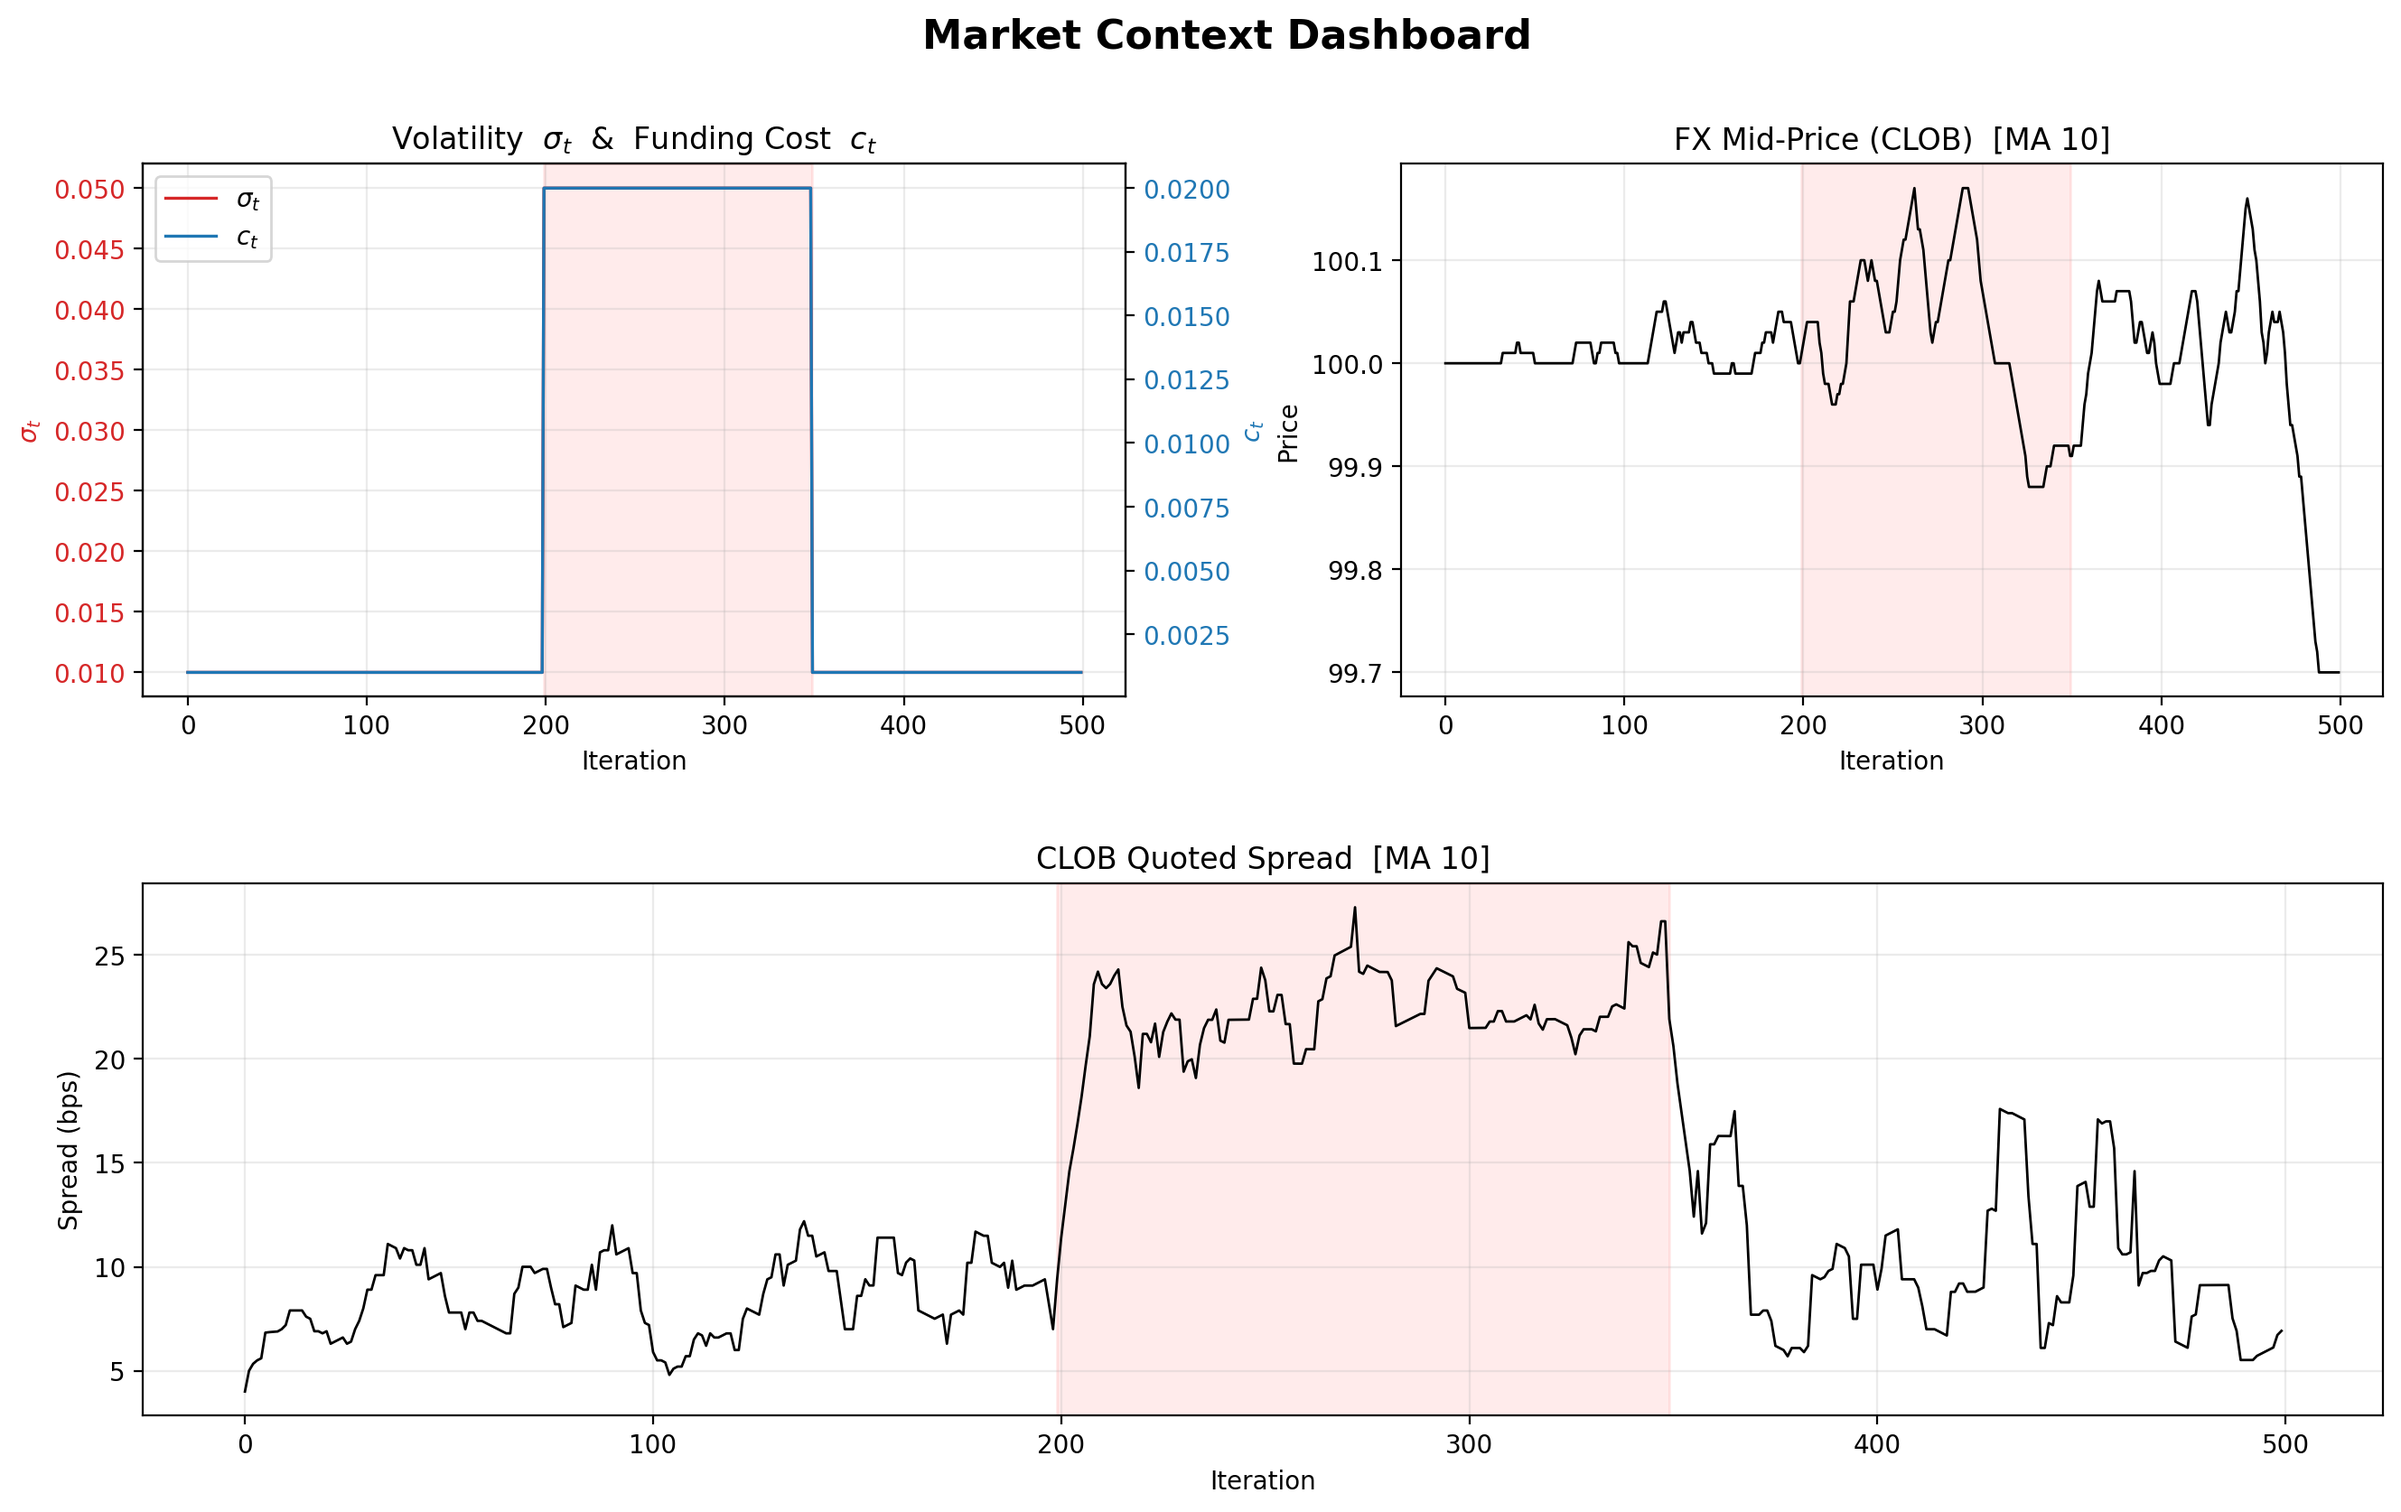
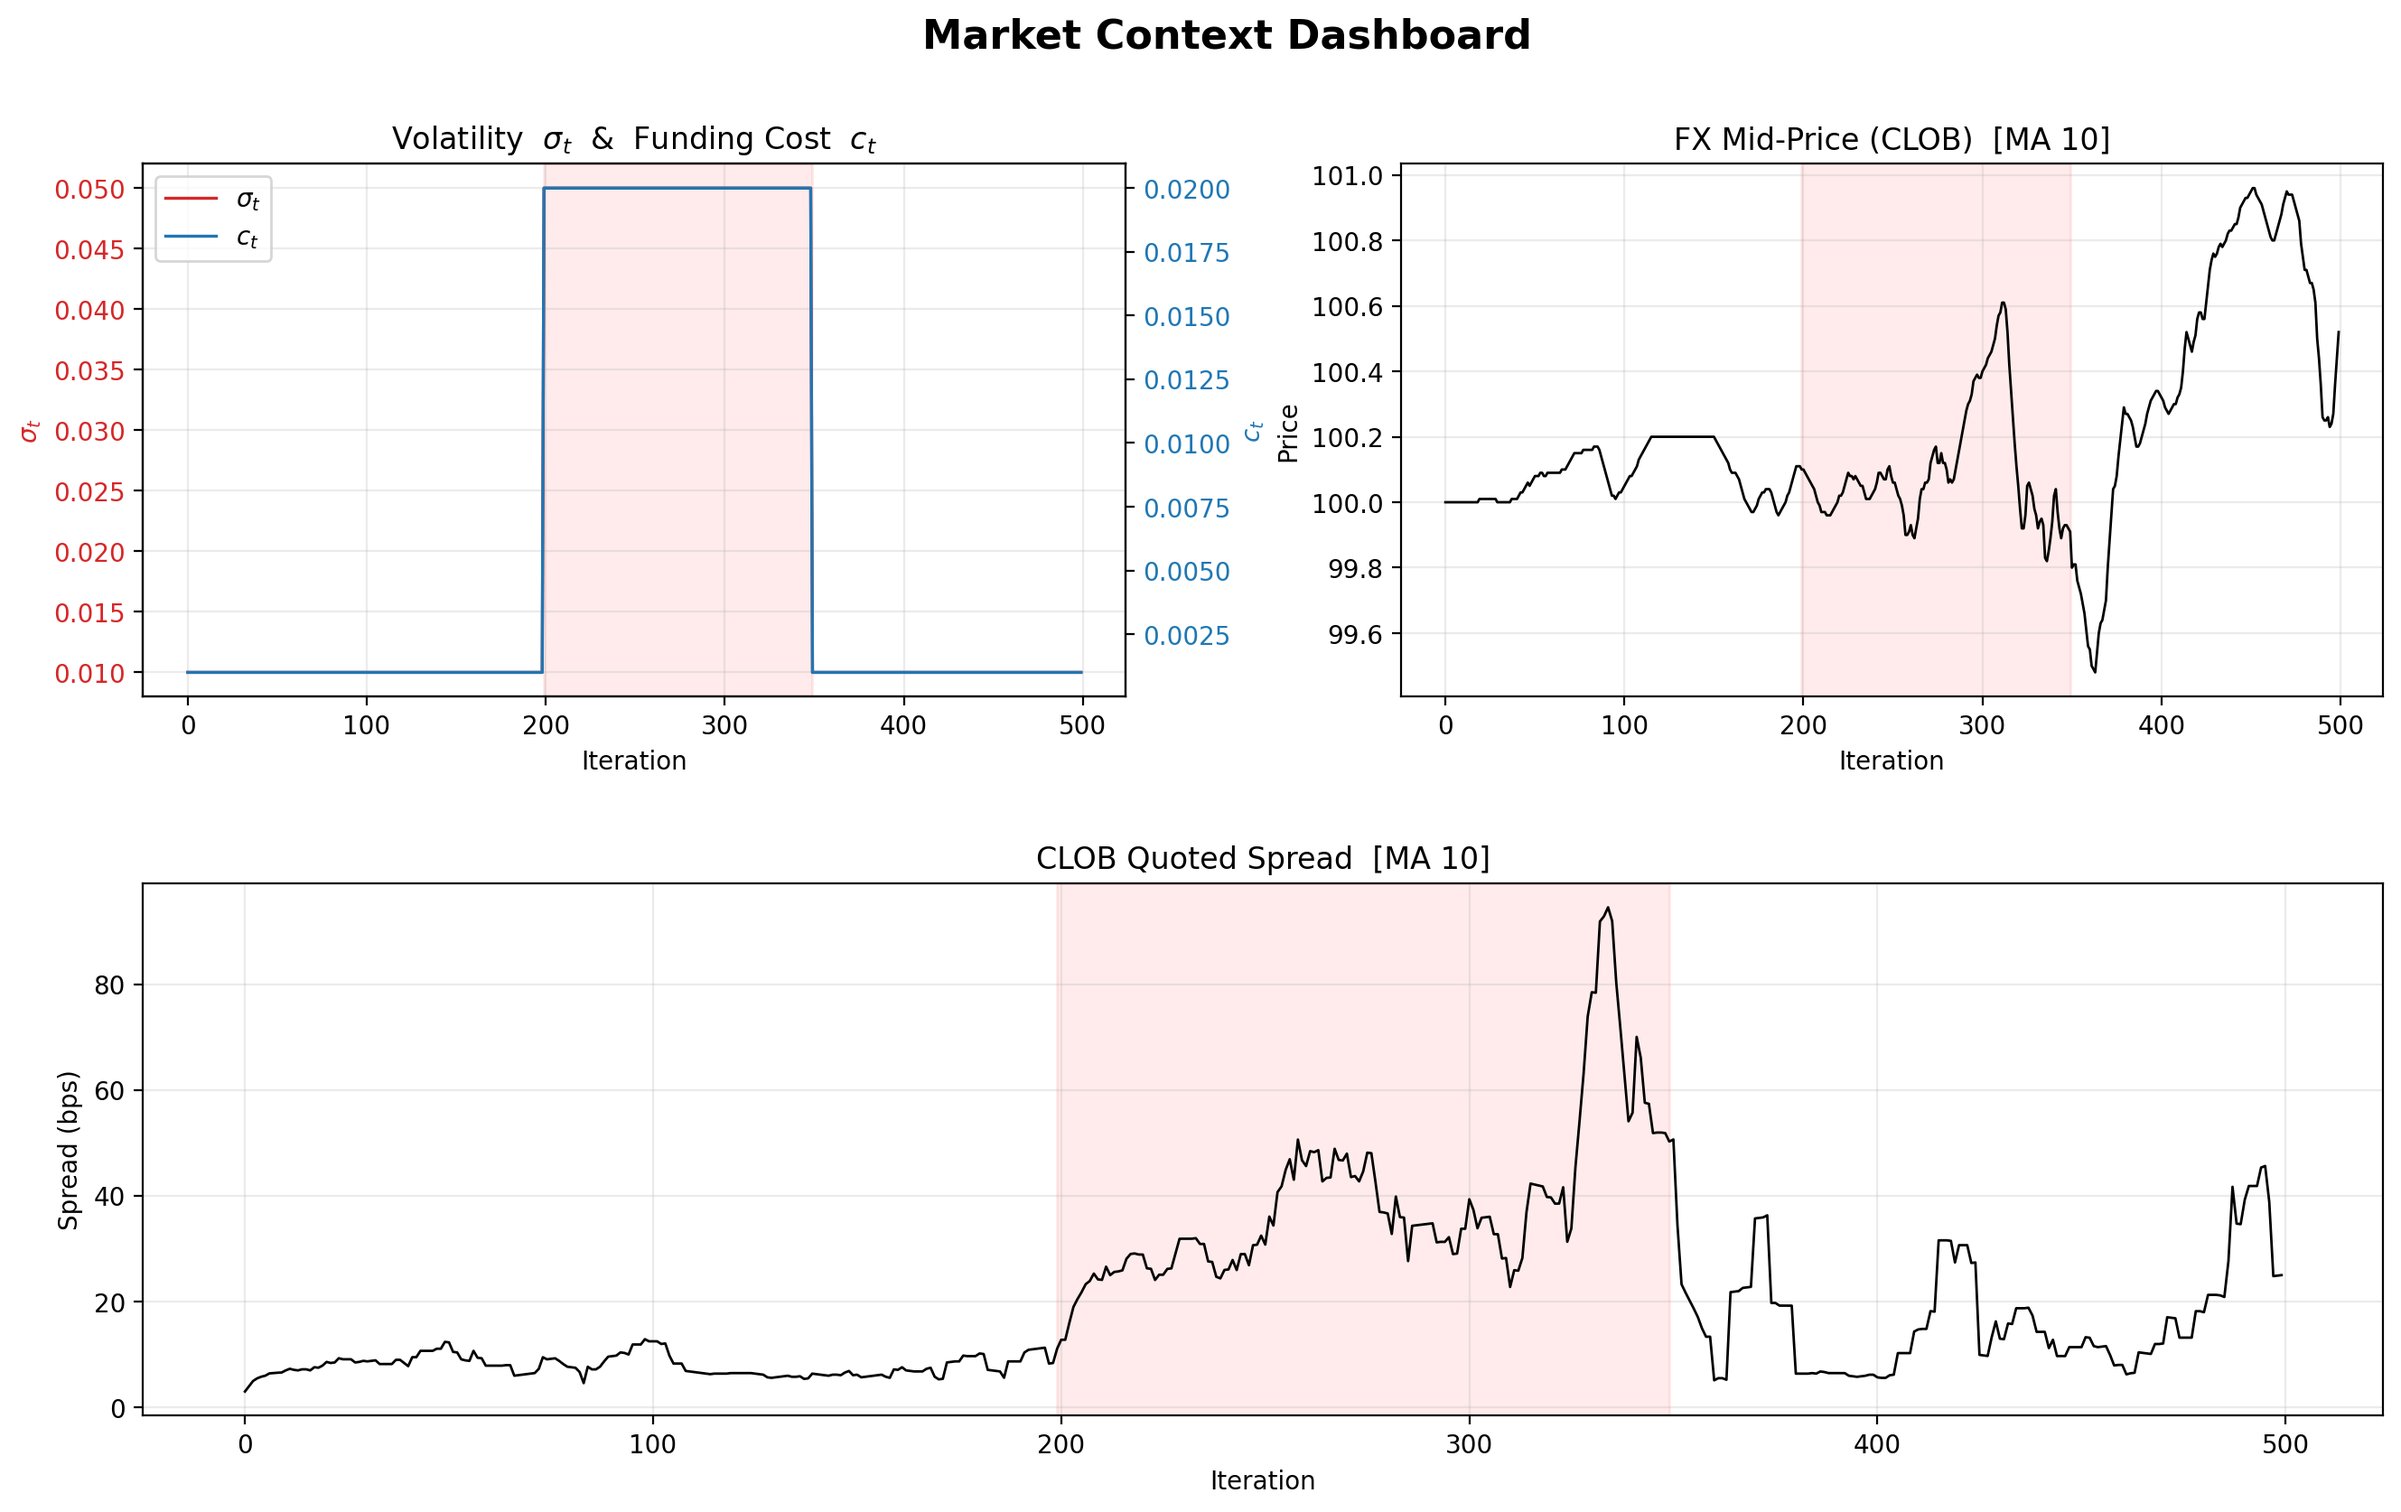
Tune HFMM calibration and update dashboards

diff --git a/AgentBasedModel/simulator/simulator.py b/AgentBasedModel/simulator/simulator.py
@@ -146,6 +146,13 @@ class Simulator:
             if self.env is not None:
                 self.env.step()
 
+            # 1b. Pre-trade arbitrage — align AMM prices *before* FX
+            #     takers observe quotes.  This second pass (together with
+            #     the post-trade pass in step 7) keeps pool mid-prices
+            #     close to S_t even under high-σ GBM dynamics.
+            if self.arbitrageur is not None:
+                self.arbitrageur.arbitrage()
+
             # 2. CLOB market maker quotes
             if self.mm is not None:
                 self.mm.call()
@@ -202,9 +209,9 @@ class Simulator:
                    n_institutional: int = 3,
                    clob_std: float = 2.0,
                    clob_volume: int = 1000,
-                   cpmm_reserves: float = 500.0,
-                   hfmm_reserves: float = 500.0,
-                   hfmm_A: float = 100.0,
+                   cpmm_reserves: float = 1500.0,
+                   hfmm_reserves: float = 300.0,
+                   hfmm_A: float = 10.0,
                    cpmm_fee: float = 0.003,
                    hfmm_fee: float = 0.001,
                    stress_start: Optional[int] = 200,

diff --git a/AgentBasedModel/agents/agents.py b/AgentBasedModel/agents/agents.py
@@ -996,7 +996,7 @@ class AMMArbitrageur:
                  amm_pools: Dict[str, CPMMPool | HFMMPool],
                  env: MarketEnvironment = None,
                  max_spread_bps: float = 500.0,
-                 max_correction_pct: float = 2.0):
+                 max_correction_pct: float = 10.0):
         self.clob = clob
         self.amm_pools = amm_pools
         self.env = env
